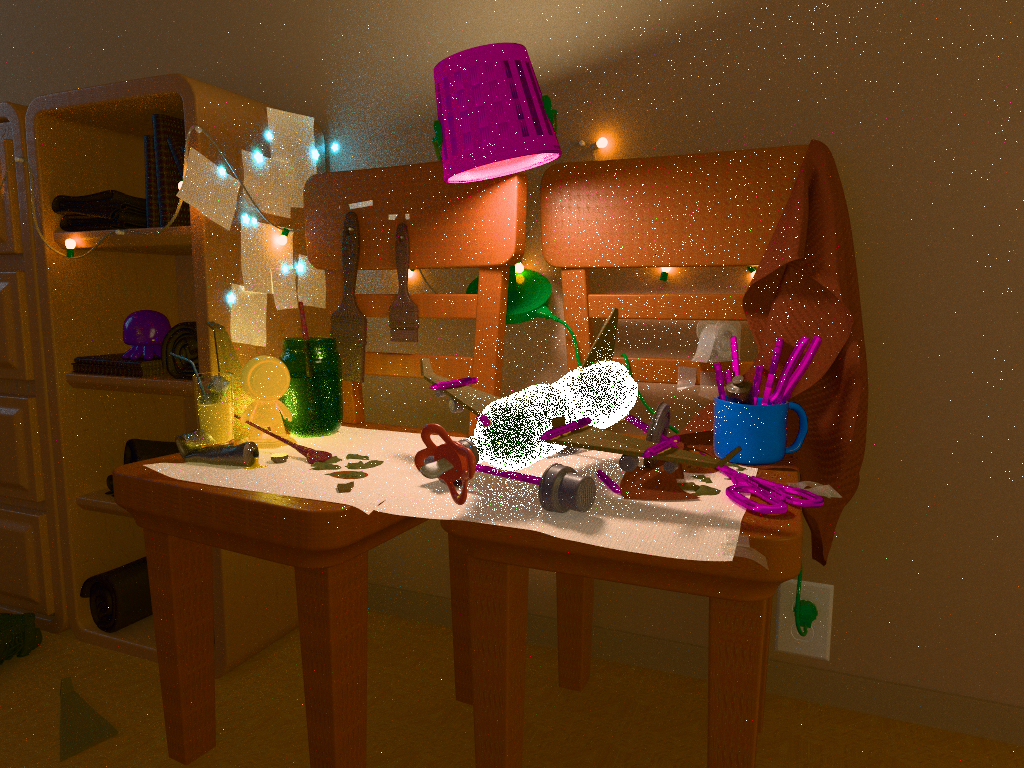
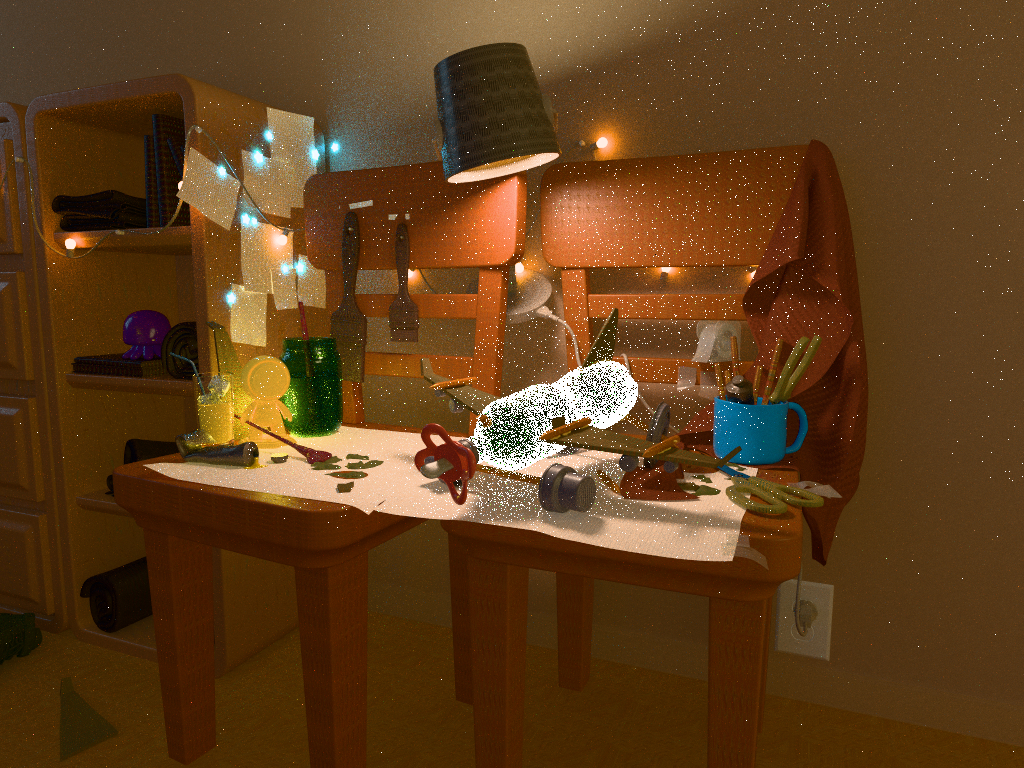
Load every UDIM tile that exists, and every component type Hio decodes
Twenty-one of the OpenPBR playground's textures failed to open, all of them
.tif, and the conclusion wrote itself: no TIFF plugin, hdClaude needs
OpenImageIO. Both halves were wrong. The distribution ships hioOiio -- the
OpenImageIO plugin -- registered for tif, tiff, zfile and tx, with
OpenImageIO.dll and tiff.dll beside it, and Hio was reading those files
perfectly well. The failures were hdClaude's, in two unrelated places, and the
file extension they shared was a coincidence.

A UDIM set does not necessarily start at 1001. The <UDIM> expansion assumed it
did; the playground's tools are authored on tile 1003, so every one of their
textures resolved to a path with no file at it. The tile is now found by asking
the resolver, walking the 10x10 grid the convention defines and taking the
first that exists.

Sixteen bits is not an exotic format. Widen accepted unsigned byte, half and
float and refused everything else as "unsupported component type", which
included the HioTypeUnsignedShort a paint package writes a mask or a height map
as. Every component type Hio can produce now goes through one conversion, which
is also the single place to change when the texture pool carries more than
RGBA8.

The playground loads all 100 of its textures; Sponza, the chess board and the
shader balls report none missing. All ten baselines re-rendered.

Claude-Session: https://claude.ai/code/session_01H2DRiTLfhoEEkNZVTkCbhK

diff --git a/src/hydra/texture_loader.cpp b/src/hydra/texture_loader.cpp
@@ -8,6 +8,8 @@
 
 #include <algorithm>
 #include <cmath>
+#include <cstdint>
+#include <cstring>
 
 PXR_NAMESPACE_OPEN_SCOPE
 
@@ -19,6 +21,61 @@ namespace {
 /// a plugin is free to decline a conversion, and a silently unconverted read
 /// is a buffer of the wrong stride rather than an error. Reading in the file's
 /// own format and widening here is the version that cannot be quietly wrong.
+/// One decoded component, as the eight-bit value the GPU texture holds.
+///
+/// The renderer's textures are RGBA8, so everything wider is quantised here
+/// rather than at upload; a 16-bit source is a finer *source*, not a finer
+/// texture, until the pool carries more than one format.
+std::uint8_t Quantise(const char* source, HioType type)
+{
+    const auto fromUnit = [](float unit) {
+        return static_cast<std::uint8_t>(std::clamp(unit, 0.0f, 1.0f) * 255.0f + 0.5f);
+    };
+    switch (type) {
+        case HioTypeUnsignedByte:
+        case HioTypeUnsignedByteSRGB:
+            return static_cast<std::uint8_t>(
+                *reinterpret_cast<const unsigned char*>(source));
+        case HioTypeSignedByte: {
+            std::int8_t value = 0;
+            std::memcpy(&value, source, sizeof(value));
+            return fromUnit(static_cast<float>(value) / 127.0f);
+        }
+        case HioTypeUnsignedShort: {
+            std::uint16_t value = 0;
+            std::memcpy(&value, source, sizeof(value));
+            return fromUnit(static_cast<float>(value) / 65535.0f);
+        }
+        case HioTypeSignedShort: {
+            std::int16_t value = 0;
+            std::memcpy(&value, source, sizeof(value));
+            return fromUnit(static_cast<float>(value) / 32767.0f);
+        }
+        case HioTypeUnsignedInt: {
+            std::uint32_t value = 0;
+            std::memcpy(&value, source, sizeof(value));
+            return fromUnit(static_cast<float>(value) / 4294967295.0f);
+        }
+        case HioTypeInt: {
+            std::int32_t value = 0;
+            std::memcpy(&value, source, sizeof(value));
+            return fromUnit(static_cast<float>(value) / 2147483647.0f);
+        }
+        case HioTypeHalfFloat: {
+            GfHalf value;
+            std::memcpy(&value, source, sizeof(value));
+            return fromUnit(static_cast<float>(value));
+        }
+        case HioTypeFloat: {
+            float value = 0.0f;
+            std::memcpy(&value, source, sizeof(value));
+            return fromUnit(value);
+        }
+        default:
+            return 0;
+    }
+}
+
 bool Widen(const HioImageSharedPtr& image, hdclaude::TextureImage* out,
            std::string* error)
 {
@@ -37,10 +94,20 @@ bool Widen(const HioImageSharedPtr& image, hdclaude::TextureImage* out,
         return false;
     }
 
+    // The component types a decoder actually produces. Sixteen-bit is not
+    // exotic -- it is what a mask or a height map authored in a paint package
+    // saves as, and three of the OpenPBR playground's TIFFs are exactly that --
+    // and refusing it looked from the outside like a missing TIFF decoder.
     size_t bytesPerComponent = 0;
     switch (type) {
-        case HioTypeUnsignedByte: bytesPerComponent = 1; break;
+        case HioTypeUnsignedByte:
+        case HioTypeUnsignedByteSRGB:
+        case HioTypeSignedByte:   bytesPerComponent = 1; break;
+        case HioTypeUnsignedShort:
+        case HioTypeSignedShort:
         case HioTypeHalfFloat:    bytesPerComponent = 2; break;
+        case HioTypeUnsignedInt:
+        case HioTypeInt:
         case HioTypeFloat:        bytesPerComponent = 4; break;
         default:
             if (error) {
@@ -85,39 +152,12 @@ bool Widen(const HioImageSharedPtr& image, hdclaude::TextureImage* out,
         for (size_t c = 0; c < 4; ++c) {
             std::uint8_t value = (c == 3) ? 255 : 0;
             if (c < channels) {
-                const char* source =
-                    raw.data() + (i * channels + c) * bytesPerComponent;
-                switch (type) {
-                    case HioTypeUnsignedByte:
-                        value = static_cast<std::uint8_t>(
-                            *reinterpret_cast<const unsigned char*>(source));
-                        break;
-                    case HioTypeHalfFloat: {
-                        GfHalf half;
-                        std::memcpy(&half, source, sizeof(GfHalf));
-                        value = static_cast<std::uint8_t>(
-                            std::clamp(static_cast<float>(half), 0.0f, 1.0f) *
-                                255.0f + 0.5f);
-                        break;
-                    }
-                    case HioTypeFloat: {
-                        float f = 0.0f;
-                        std::memcpy(&f, source, sizeof(float));
-                        value = static_cast<std::uint8_t>(
-                            std::clamp(f, 0.0f, 1.0f) * 255.0f + 0.5f);
-                        break;
-                    }
-                    default:
-                        break;
-                }
+                value = Quantise(raw.data() + (i * channels + c) * bytesPerComponent,
+                                 type);
             } else if (c < 3 && channels == 1) {
                 // A single-channel image reads as grey rather than as red,
                 // which is what a greyscale roughness or mask map means.
-                const char* source = raw.data() + i * bytesPerComponent;
-                if (type == HioTypeUnsignedByte) {
-                    value = static_cast<std::uint8_t>(
-                        *reinterpret_cast<const unsigned char*>(source));
-                }
+                value = Quantise(raw.data() + i * bytesPerComponent, type);
             }
             out->rgba[i * 4 + c] = value;
         }
@@ -135,20 +175,39 @@ bool HdClaudeLoadTexture(const std::string& assetPath,
         return false;
     }
 
-    // A UDIM set, reduced to its first tile.
+    // A UDIM set, reduced to its first *existing* tile.
     //
     // `<UDIM>` is a token USD leaves in the path for the renderer to expand
     // into one texture per tile, selected by which unit square of UV space a
-    // sample lands in. hdClaude has no tile selection yet, so it loads tile
-    // 1001 and shades every tile with it. That is wrong for a multi-tile
-    // asset and right for the many that ship one tile, and both are better
-    // than the alternative: an unexpanded token opens nothing, and the OpenPBR
-    // playground rendered as 85 magenta placeholders because of it.
+    // sample lands in. hdClaude has no tile selection yet, so it shades every
+    // tile with one of them -- wrong for a multi-tile asset, right for the
+    // many that ship one, and far better than the alternative: an unexpanded
+    // token opens nothing at all.
+    //
+    // Which tile is found by asking, not assumed. 1001 is the first index of
+    // the grid and not necessarily the first index an asset uses: the OpenPBR
+    // playground's tools are authored on tile 1003, and hard-coding 1001 left
+    // twenty-one of its textures unopened while looking exactly like a missing
+    // TIFF decoder.
     std::string path = assetPath;
     const std::string udim = "<UDIM>";
     const std::size_t token = path.find(udim);
     if (token != std::string::npos) {
-        path.replace(token, udim.size(), "1001");
+        // The 10x10 grid UDIM defines, in order.
+        for (int tile = 1001; tile <= 1100; ++tile) {
+            std::string candidate = path;
+            candidate.replace(token, udim.size(), std::to_string(tile));
+            if (ArGetResolver().Resolve(candidate)) {
+                path = candidate;
+                break;
+            }
+        }
+        if (path.find(udim) != std::string::npos) {
+            if (error) {
+                *error = "no tile of the UDIM set '" + assetPath + "' exists";
+            }
+            return false;
+        }
     }
 
     // Resolve through Ar so a path relative to a layer, or inside a package,

diff --git a/docs/roadmap.md b/docs/roadmap.md
@@ -32,7 +32,7 @@ A blocked phase must name what blocks it.
 | 4 | `genglsl_pt` MaterialX target: eval, sample, pdf, combinators | In progress | all 22 overrides; `standard_surface` and `open_pbr_surface` compile; energy and probability-mass validated on GPU for 10 closures and combinators; the generated geometry setter assigns every member it declares, so object-space patterns and texture coordinates reach a material instead of reading undefined memory; screen-space derivatives are defined as zero, which is a path tracer's actual filter width, so an inherited node that asks for one generates instead of failing to compile. Remaining: chi-squared agreement |
 | 5 | Wavefront integrator: queues, sort, per-material dispatch | In progress | raygen, extend, environment, per-material shade, shadow, film; compaction between bounces; the counting sort by material and indirect dispatch throughout, asserted against the GPU-written counts (2336 camera hits split 1169/1167 across two materials, matching the shaded pixels exactly); the gate's scaling measurement, at 512x512 with a 32-node fractal graph -- 8.7 ms with neither quad heavy, 18.6 ms with one, 29.1 ms with both, so one heavy material costs 0.45 of what two cost rather than nearly all of it; images verified for direct lighting, per-material dispatch and cast shadows; a sampled direction is evaluated by the closure whose side it left on, so a refraction reaches the transmission branch instead of being terminated as impossible. Remaining: sort granularity, once there is a scene that makes the choice matter |
 | 6 | Spectral transport, lights, MIS, film | In progress | the analytic UsdLux set -- rect, disk, sphere, cylinder, distant -- sampled by NEE, with cone and focus shaping and colour temperature; a dome light supplies a constant or textured environment; exposure control; film accumulates progressively. The environment is sampled as one more emitter by next-event estimation and weighted against BSDF sampling by the balance heuristic -- the analytic lights deliberately are not, since nothing can hit them -- and a white furnace confirms the estimator: a 0.8 Lambertian under a unit sky renders 0.811 at 256 samples, where the closed form is 0.800. Remaining: hero-wavelength transport, MIS among the analytic lights once they are hittable, light-power selection, a cosine or luminance-importance environment density, IES profiles, light filters, geometry lights |
-| 7 | Hydra delegate: adapters, render pass, AOVs, settings | In progress | plugin discovered as "Claude GPU Path Tracer"; `UsdPreviewSurface` networks shade through MaterialX's own `ND_UsdPreviewSurface_surfaceshader` rather than falling back to `displayColor`, which is 137 of Intel Sponza's materials; mesh, material, light, camera and render-buffer adapters; progressive render pass; all three `gallery/shader_ball_*.usda` scenes render lit and materially distinct; textures load through Hio and bind bindlessly, and the interpolated texture coordinate reaches the material -- asserted by a material whose albedo is its own UV. textures arrive the way round they were decoded, asserted by a four-quadrant image whose corners must land where they are named; an image node with no file reads its declared default rather than the failure placeholder; and a material reading UVs through `geompropvalue` gets them. a `<UDIM>` token expands to tile 1001 rather than opening nothing; an input whose name or type the linked MaterialX does not declare is dropped with a warning rather than costing the material; and a `UsdPrimvarReader` is rewritten into the `geompropvalue` it wraps, whose `geomprop` MaterialX otherwise cannot read through the nodegraph interface. Remaining: real UDIM tile selection, a second UV set, face-varying UVs, primvar geomprops beyond position, normal, tangent and UV, per-texture wrap and filter modes, depth and id AOVs |
+| 7 | Hydra delegate: adapters, render pass, AOVs, settings | In progress | plugin discovered as "Claude GPU Path Tracer"; `UsdPreviewSurface` networks shade through MaterialX's own `ND_UsdPreviewSurface_surfaceshader` rather than falling back to `displayColor`, which is 137 of Intel Sponza's materials; mesh, material, light, camera and render-buffer adapters; progressive render pass; all three `gallery/shader_ball_*.usda` scenes render lit and materially distinct; textures load through Hio and bind bindlessly, and the interpolated texture coordinate reaches the material -- asserted by a material whose albedo is its own UV. textures arrive the way round they were decoded, asserted by a four-quadrant image whose corners must land where they are named; an image node with no file reads its declared default rather than the failure placeholder; and a material reading UVs through `geompropvalue` gets them. a `<UDIM>` token expands to the first tile the resolver finds, and every component type Hio decodes is accepted, so a 16-bit mask and a set authored on tile 1003 both load; an input whose name or type the linked MaterialX does not declare is dropped with a warning rather than costing the material; and a `UsdPrimvarReader` is rewritten into the `geompropvalue` it wraps, whose `geomprop` MaterialX otherwise cannot read through the nodegraph interface. Remaining: real UDIM tile selection, a second UV set, face-varying UVs, primvar geomprops beyond position, normal, tangent and UV, per-texture wrap and filter modes, depth and id AOVs |
 | 8 | Gallery parity with hdCodex baselines | In progress | `render_gallery.bat` renders, times, display-transforms and gates every scene, and rewrites the timing table; `hdClaudeDisplayTransform` and `hdClaudeImageDiff` are the two tools behind it, and the gate fails on RMS, worst pixel, failed-pixel count, a black image, or a non-finite sample. All ten scenes render, with baselines, timings and the machine record ([gallery.md](../gallery.md)); each names what its image still gets wrong. Parity itself is untouched -- no scene matches hdCodex yet, and Sponza in particular is far darker |
 | 9 | Interactive contract: frame identity, per-slot resources, real overlap | Not started | - |
 | 10 | Temporal foundation: jitter, motion vectors, guides, history reset | Not started | - |

diff --git a/gallery.md b/gallery.md
@@ -78,16 +78,16 @@ and a device-loss investigation cannot start without it. hdCodex spent days on a
 <!-- gallery-timings:start -->
 | Scene | Measured | Wall time | SHA-256 | Device | Settings |
 |---|---:|---:|---|---|---|
[20 lines of base64/hex data omitted]
 <!-- gallery-timings:end -->
 
 ## Against hdCodex
@@ -267,12 +267,12 @@ render_claude.bat --imageWidth 1024 --colorCorrectionMode disabled --purposes re
 
 **Current state.** Renders, after three unrelated refusals were resolved:
 `mx_aastep`'s `dFdx`, an `open_pbr_surface` input this MaterialX does not
-declare, and eighty-five UDIM textures whose `<UDIM>` token opened nothing. The
-remaining magenta -- the lamp shade, the pencils, the scissors -- is the
-placeholder meaning exactly what it says: those materials are TIFFs, and this
-OpenUSD distribution's Hio has no plugin for them. The image is also the
-noisiest in the gallery, which is what an interior lit through small emitters
-looks like without MIS.
+declare, and eighty-five UDIM textures whose `<UDIM>` token opened nothing. All
+100 of its textures load: the ones that did not were a UDIM set authored on
+tile 1003 rather than 1001, and three 16-bit masks this renderer used to
+refuse -- not, as it looked, a missing TIFF decoder. The image is the noisiest
+in the gallery, which is what an interior lit through small emitters looks like
+while the analytic lights have no MIS of their own.
 
 It is also the scene on which hdCodex reproducibly lost the Vulkan device.
 hdClaude renders it in 46 seconds.

diff --git a/docs/implementation-notes.md b/docs/implementation-notes.md
@@ -1435,3 +1435,39 @@ Worth keeping: the comment stating the invariant was two files away from the
 code that broke it, and it was accurate the whole time. What would have caught
 this is an assertion that `shadowCount` never exceeds the path count, which the
 GPU can check and the host currently never reads.
+
+---
+
+## 2026-09-06 -- The missing TIFF decoder that was neither missing nor a decoder
+
+Twenty-one of the OpenPBR playground's textures failed to open, all of them
+`.tif`, and the conclusion wrote itself: this OpenUSD distribution has no TIFF
+plugin, and hdClaude would need OpenImageIO. Both halves were wrong.
+
+The distribution ships `hioOiio` -- the OpenImageIO plugin -- registered for
+`tif`, `tiff`, `zfile` and `tx`, with `OpenImageIO.dll` and `tiff.dll` beside
+it. Hio was reading those files perfectly well. The failures were hdClaude's,
+in two places, and the file extension they had in common was a coincidence.
+
+**A UDIM set does not necessarily start at 1001.** The `<UDIM>` expansion added
+earlier assumed it did. The playground's tools are authored on tile 1003, so
+every one of their textures resolved to a path with no file at it. The tile is
+now found by asking the resolver, walking the 10x10 grid the UDIM convention
+defines and taking the first that exists.
+
+**Sixteen bits is not an exotic format.** `Widen` accepted unsigned byte, half
+and float, and refused everything else with "unsupported component type" --
+which included the `HioTypeUnsignedShort` a paint package writes a mask or a
+height map as. Three textures failed on that, and the message was as unhelpful
+as it sounds. Every component type Hio can produce is now converted through one
+function, which is also the place to change when the texture pool carries more
+than RGBA8.
+
+The playground now loads all 100 of its textures.
+
+The lesson is about the shape of the evidence, not about images. Twenty-one
+failures that shared a file extension and *no other property* looked like one
+cause, and the extension was the one thing that had nothing to do with it. What
+would have separated them sooner is the error text: "no image plugin opened"
+and "unsupported component type" are different failures, and they were being
+read as one because they arrived in the same list.
